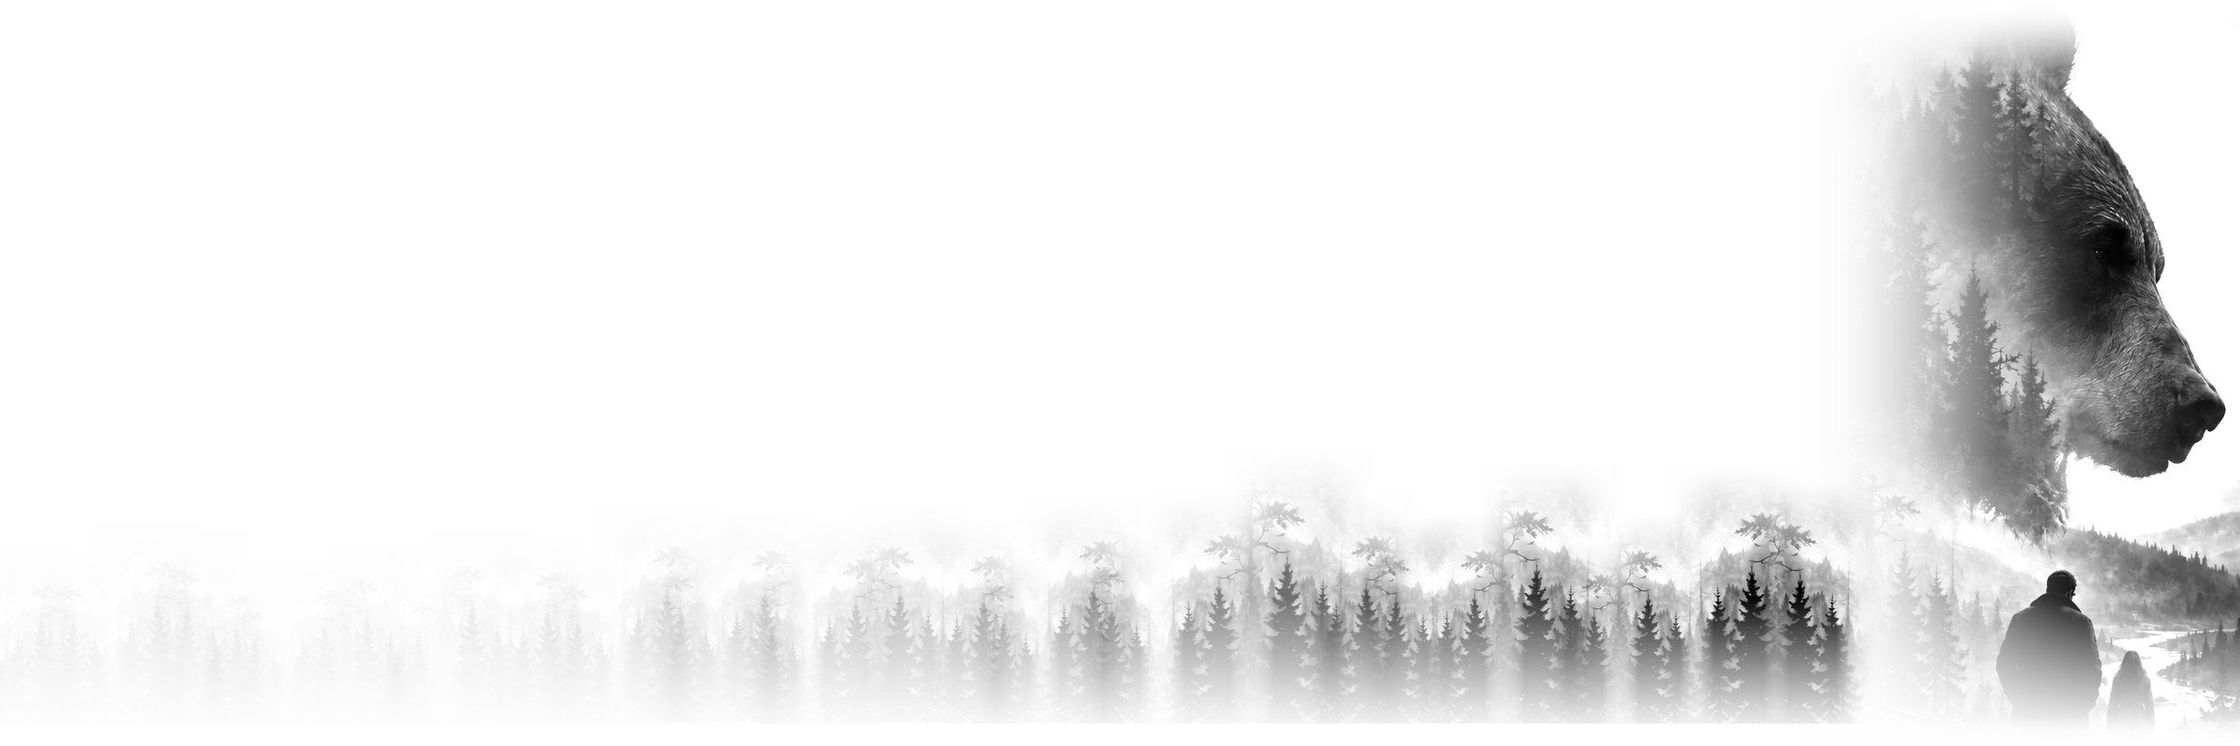
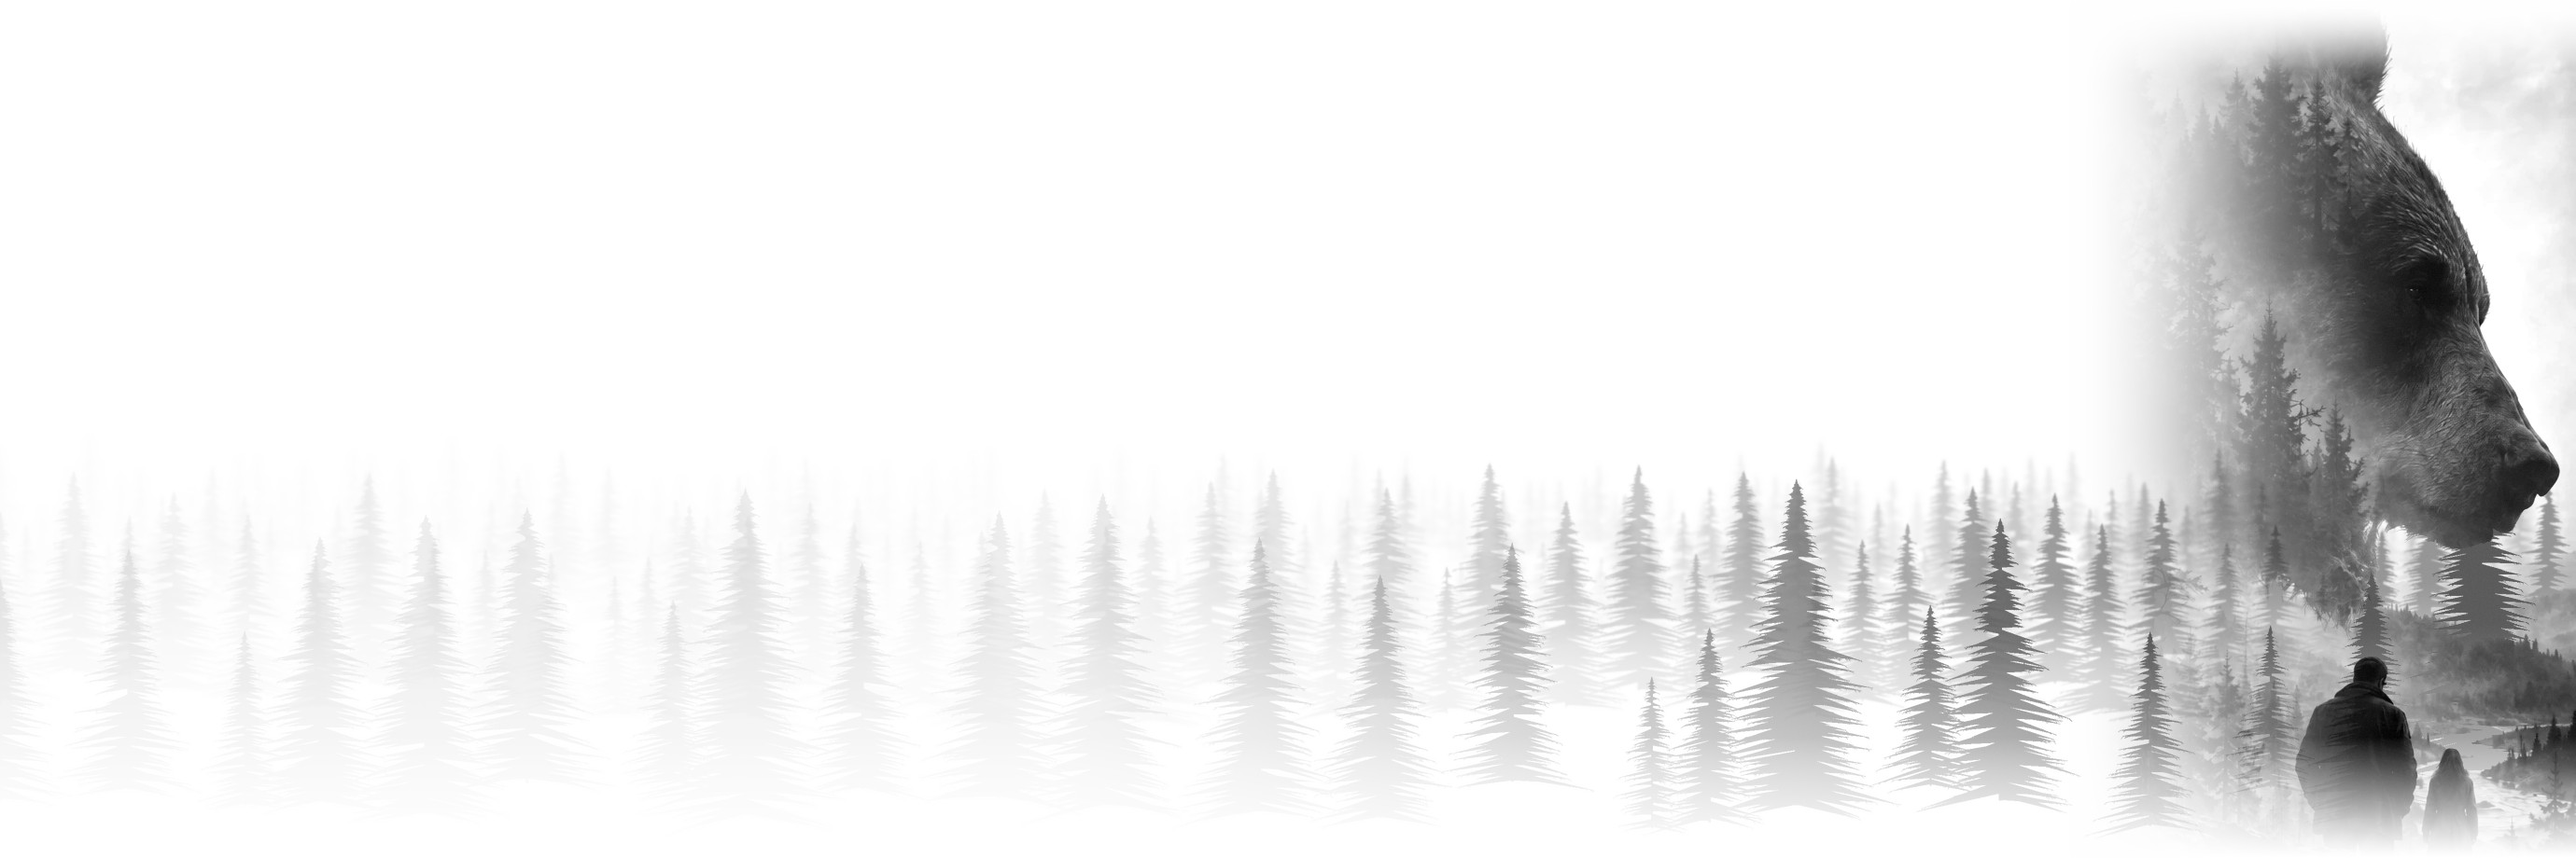
Сайт автора: первый экран — естественный лес в несколько слоёв дымки и медведь в полном качестве
Медведь и тропа — из обложки без растягивания; ели нарисованы заново (ветки, неровный силуэт, разная высота),
дальние слои светлее и тонут в тумане, за текстом лес почти прозрачный; переходы плавные, без резких обрывов.

Claude-Session: https://claude.ai/code/session_01Uu83MB45nkJX1tXJZPePva

diff --git a/AGENTS.md b/AGENTS.md
@@ -34,7 +34,7 @@
   Пустые разделы не показываются. Цитаты, отрывки, отзывы — только настоящие (из книг/от читателей), не выдумывать.
   Первый экран главной — без обложек книг: слева заголовок и кнопка, справа **медведь в тумане над лесом — кадр с её обложки
   «Звериная тропа для двоих»** (`site/hero-bear.jpg`, без лица героини и названия; значок вкладки `site/icon-bear.png` — оттуда же)
-  или другая картинка `photo`. Картинка — горизонтальная панорама на весь блок (2400×800, собрана из обложки: ели в тумане стелются по всей ширине, слева за текстом — бледнее, справа медведь и двое на тропе), туман вшит в файл (уходит в белое) и смешивается с фоном (multiply); вертикальную «фотку» она отвергла. На телефоне — под текстом. Нарисованного кодом медведя (линии, силуэт) она отвергла как «детский» — не рисовать, брать её арт.
+  или другая картинка `photo`. Картинка — горизонтальная панорама на весь блок (2760×920: медведь и двое на тропе — из обложки в полном разрешении; лес — нарисованные слоями ели с ветками и дымкой, дальние светлее, за текстом почти прозрачные; повторяющиеся куски обложки она назвала неестественными), туман вшит в файл (уходит в белое) и смешивается с фоном (multiply); вертикальную «фотку» она отвергла. На телефоне — под текстом. Нарисованного кодом медведя (линии, силуэт) она отвергла как «детский» — не рисовать, брать её арт.
   Читателю не показываем главы и авторские листы — только статус и возраст. Бегущая строка скрыта.
   Внизу каждой страницы — **подписка с подарком** (`subscribeBox`: почта + галочка согласия → Firestore `site_subs`, создавать
   может любой, читать — только владелица; сразу после подписки — кнопка «Скачать» по `giftUrl`). Настройки и список адресов
